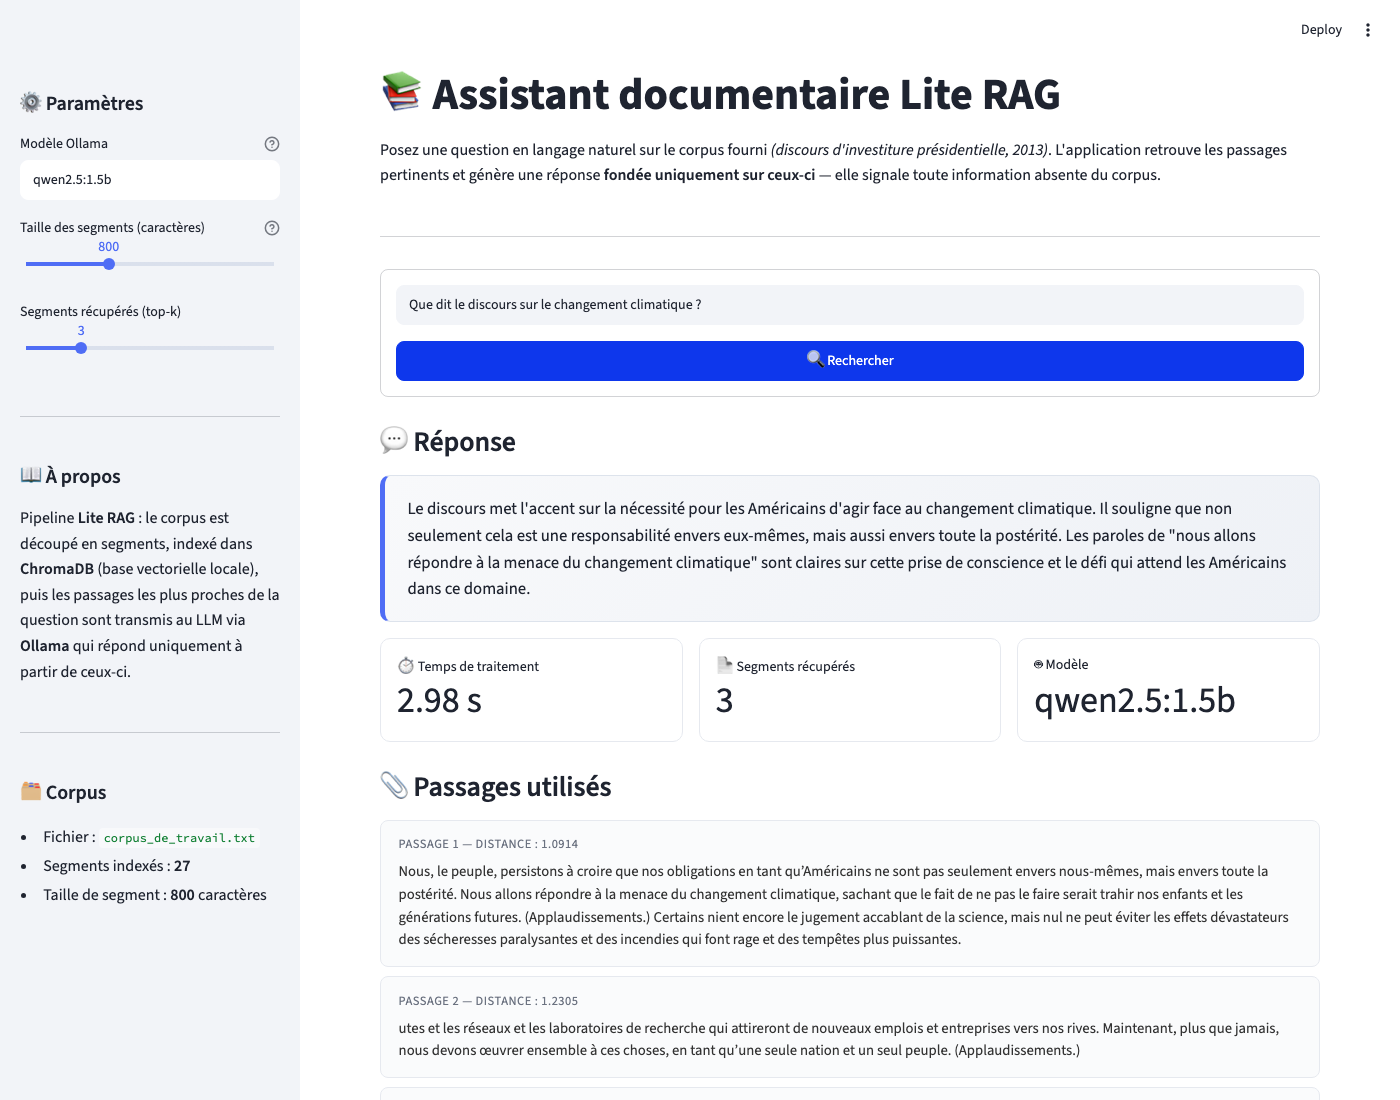
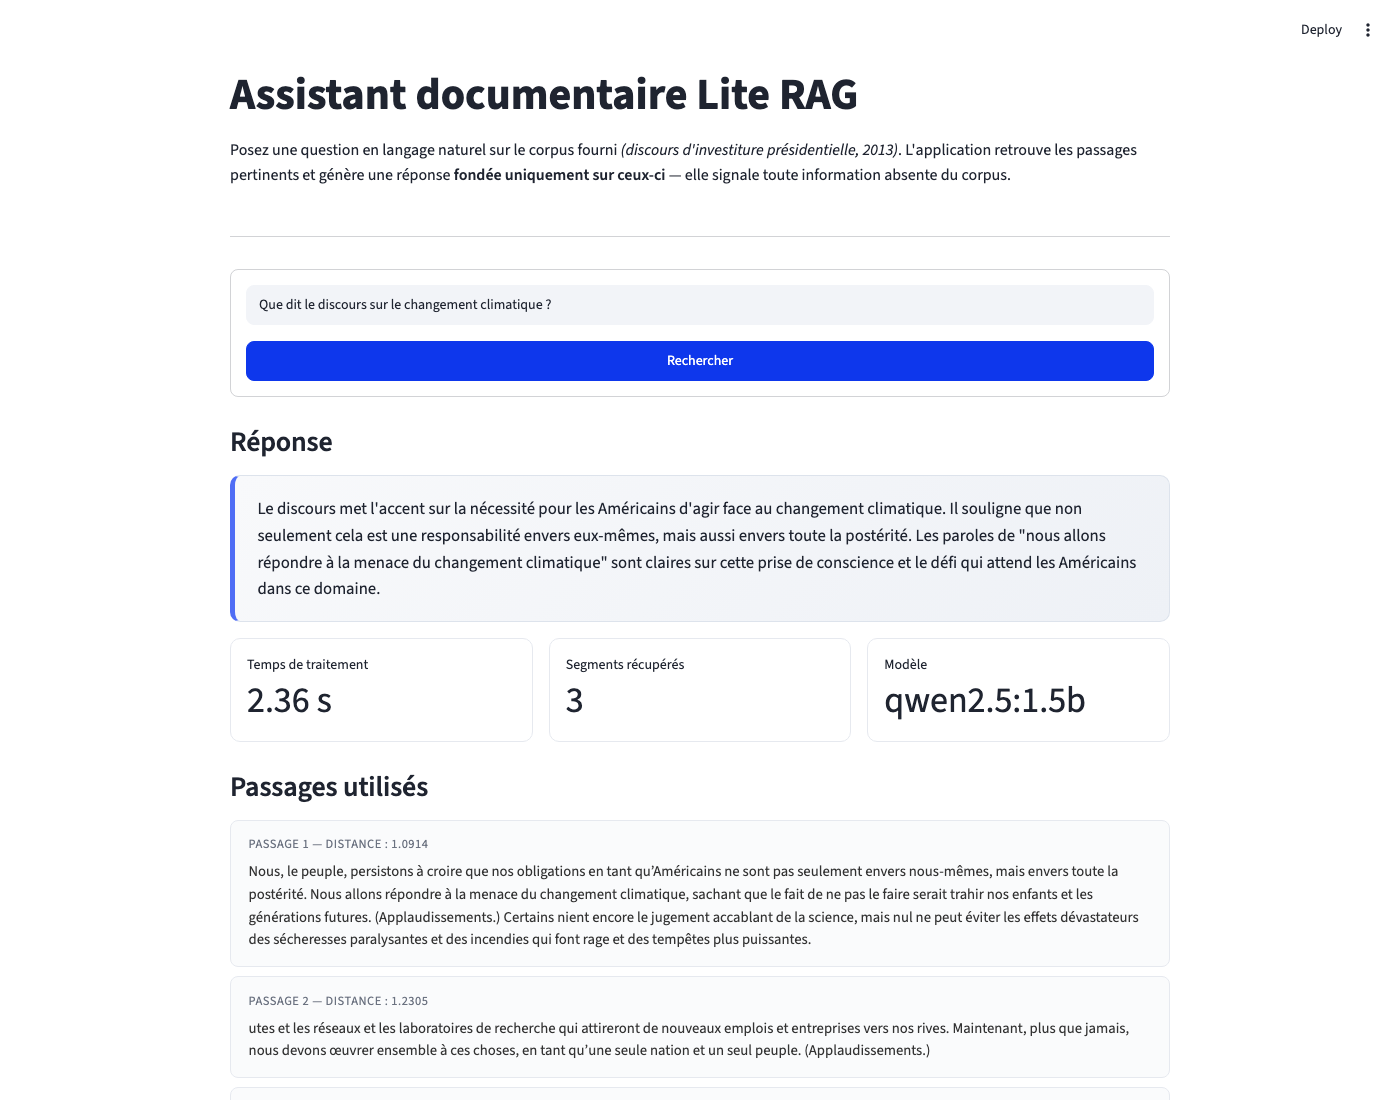
Adapt app for Streamlit Community Cloud deployment
- Swap system sqlite3 for pysqlite3-binary on Linux (ChromaDB requirement)
- Bridge Streamlit secrets into environment for OLLAMA_URL configuration
- Update webapp screenshot

diff --git a/app.py b/app.py
@@ -1,6 +1,16 @@
 """Webapp Streamlit — Assistant documentaire Lite RAG."""
 
+import os
+
 import streamlit as st
+
+# Streamlit Community Cloud : recopie les secrets (OLLAMA_URL, etc.) dans
+# l'environnement avant le chargement de la configuration
+try:
+    for _key, _value in st.secrets.items():
+        os.environ.setdefault(_key, str(_value))
+except Exception:
+    pass
 
 from rag import config
 from rag.llm import OllamaUnavailableError
@@ -8,8 +18,8 @@ from rag.pipeline import RagPipeline
 
 st.set_page_config(
     page_title="Assistant documentaire Lite RAG",
-    page_icon="📚",
     layout="wide",
+    initial_sidebar_state="collapsed",
 )
 
 st.markdown(
@@ -53,63 +63,21 @@ st.markdown(
     unsafe_allow_html=True,
 )
 
-# ---------------------------------------------------------------- Sidebar
-with st.sidebar:
-    st.markdown("## ⚙️ Paramètres")
-    model = st.text_input(
-        "Modèle Ollama",
-        value=config.OLLAMA_MODEL,
-        help="Le modèle doit être téléchargé : `ollama pull <modele>`",
-    )
-    chunk_size = st.slider(
-        "Taille des segments (caractères)",
-        min_value=200,
-        max_value=2000,
-        value=config.CHUNK_SIZE,
-        step=100,
-        help="Modifier cette valeur reconstruit l'index vectoriel.",
-    )
-    top_k = st.slider(
-        "Segments récupérés (top-k)",
-        min_value=1,
-        max_value=10,
-        value=config.TOP_K,
-    )
-
-    st.divider()
-    st.markdown("## 📖 À propos")
-    st.markdown(
-        "Pipeline **Lite RAG** : le corpus est découpé en segments, "
-        "indexé dans **ChromaDB** (base vectorielle locale), puis les "
-        "passages les plus proches de la question sont transmis au LLM "
-        "via **Ollama** qui répond uniquement à partir de ceux-ci."
-    )
-
 
 @st.cache_resource(show_spinner="Indexation du corpus…")
-def get_pipeline(chunk_size: int, model: str) -> RagPipeline:
-    return RagPipeline(chunk_size=chunk_size, model=model)
+def get_pipeline() -> RagPipeline:
+    return RagPipeline()
 
 
 pipeline_ready = True
 try:
-    pipeline = get_pipeline(int(chunk_size), model)
+    pipeline = get_pipeline()
 except Exception as exc:  # corpus manquant, etc.
     pipeline_ready = False
     st.error(f"Impossible d'initialiser le pipeline : {exc}")
 
-with st.sidebar:
-    if pipeline_ready:
-        st.divider()
-        st.markdown("## 🗂️ Corpus")
-        st.markdown(
-            f"- Fichier : `{pipeline.corpus_path}`\n"
-            f"- Segments indexés : **{pipeline.n_chunks}**\n"
-            f"- Taille de segment : **{pipeline.chunk_size}** caractères"
-        )
-
 # ---------------------------------------------------------------- En-tête
-st.title("📚 Assistant documentaire Lite RAG")
+st.title("Assistant documentaire Lite RAG")
 st.markdown(
     "Posez une question en langage naturel sur le corpus fourni "
     "*(discours d'investiture présidentielle, 2013)*. L'application retrouve "
@@ -126,7 +94,7 @@ with st.form("question_form"):
         label_visibility="collapsed",
     )
     submitted = st.form_submit_button(
-        "🔍 Rechercher", type="primary", use_container_width=True
+        "Rechercher", type="primary", use_container_width=True
     )
 
 if "history" not in st.session_state:
@@ -134,21 +102,21 @@ if "history" not in st.session_state:
 
 if submitted and pipeline_ready:
     if not question.strip():
-        st.warning("⚠️ Veuillez saisir une question avant de lancer la recherche.")
+        st.warning("Veuillez saisir une question avant de lancer la recherche.")
     else:
         try:
             with st.spinner("Recherche des passages et génération de la réponse…"):
-                result = pipeline.ask(question.strip(), top_k=int(top_k))
+                result = pipeline.ask(question.strip(), top_k=config.TOP_K)
         except OllamaUnavailableError as exc:
-            st.error(f"🔌 {exc}")
+            st.error(str(exc))
         except Exception as exc:
-            st.error(f"❌ Erreur inattendue : {exc}")
+            st.error(f"Erreur inattendue : {exc}")
         else:
             st.session_state.history.insert(
                 0,
                 {
                     "Question": question.strip(),
-                    "Modèle": model,
+                    "Modèle": config.OLLAMA_MODEL,
                     "Statut": result["status"],
                     "Segments": result["n_segments"],
                     "Temps (s)": result["elapsed_seconds"],
@@ -156,9 +124,9 @@ if submitted and pipeline_ready:
             )
 
             if result["status"] == "hors_corpus":
-                st.info("ℹ️ L'information demandée n'est pas présente dans le corpus.")
+                st.info("L'information demandée n'est pas présente dans le corpus.")
 
-            st.markdown("### 💬 Réponse")
+            st.markdown("### Réponse")
             st.markdown(
                 f'<div class="answer-card">{result["answer"]}</div>',
                 unsafe_allow_html=True,
@@ -166,11 +134,11 @@ if submitted and pipeline_ready:
             st.write("")
 
             col1, col2, col3 = st.columns(3)
-            col1.metric("⏱️ Temps de traitement", f'{result["elapsed_seconds"]} s')
-            col2.metric("📄 Segments récupérés", result["n_segments"])
-            col3.metric("🤖 Modèle", model)
+            col1.metric("Temps de traitement", f'{result["elapsed_seconds"]} s')
+            col2.metric("Segments récupérés", result["n_segments"])
+            col3.metric("Modèle", config.OLLAMA_MODEL)
 
-            st.markdown("### 📎 Passages utilisés")
+            st.markdown("### Passages utilisés")
             for i, passage in enumerate(result["passages"], start=1):
                 st.markdown(
                     f'<div class="passage-card">'
@@ -182,6 +150,6 @@ if submitted and pipeline_ready:
 # ---------------------------------------------------------------- Historique
 if st.session_state.history:
     st.divider()
-    with st.expander(f"📊 Historique de la session ({len(st.session_state.history)} requête(s))"):
+    with st.expander(f"Historique de la session ({len(st.session_state.history)} requête(s))"):
         st.dataframe(st.session_state.history, use_container_width=True)
         st.caption(f"Journal complet : `{config.LOG_FILE}`")

diff --git a/rag/vectorstore.py b/rag/vectorstore.py
@@ -4,6 +4,16 @@ Les embeddings sont calculés par la fonction d'embedding par défaut de
 ChromaDB (all-MiniLM-L6-v2 via ONNX, exécutée localement).
 """
 
+# Streamlit Community Cloud : remplace le sqlite3 système (trop ancien
+# pour ChromaDB) par pysqlite3-binary quand il est disponible
+try:
+    __import__("pysqlite3")
+    import sys
+
+    sys.modules["sqlite3"] = sys.modules.pop("pysqlite3")
+except ImportError:
+    pass
+
 import chromadb
 
 